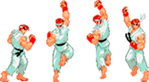
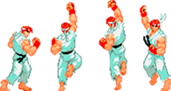
ajustes no salto

diff --git a/static/script/PreloadGame.js b/static/script/PreloadGame.js
@@ -54,7 +54,7 @@ class PreloadGame extends Phaser.Scene {
 
     // Fighter 2
     this.load.spritesheet('f2_w', 'static/img/fighters/2_walk.png', {frameWidth: 54.75, frameHeight: 81})
-    this.load.spritesheet('f2_jump', 'static/img/fighters/2_jump.png', {frameWidth: 37.25, frameHeight: 82})
+    this.load.spritesheet('f2_jump', 'static/img/fighters/2_jump.png', {frameWidth: 42.75, frameHeight: 86})
     this.load.spritesheet('f2_atck', 'static/img/fighters/2_attack1.png', {frameWidth: 56.6, frameHeight: 80})
     this.load.spritesheet('f2_fire', 'static/img/fighters/2_attack2.png', {frameWidth: 66, frameHeight: 80})
     this.load.image('f2_proj', 'static/img/fighters/2_projetil.png')
